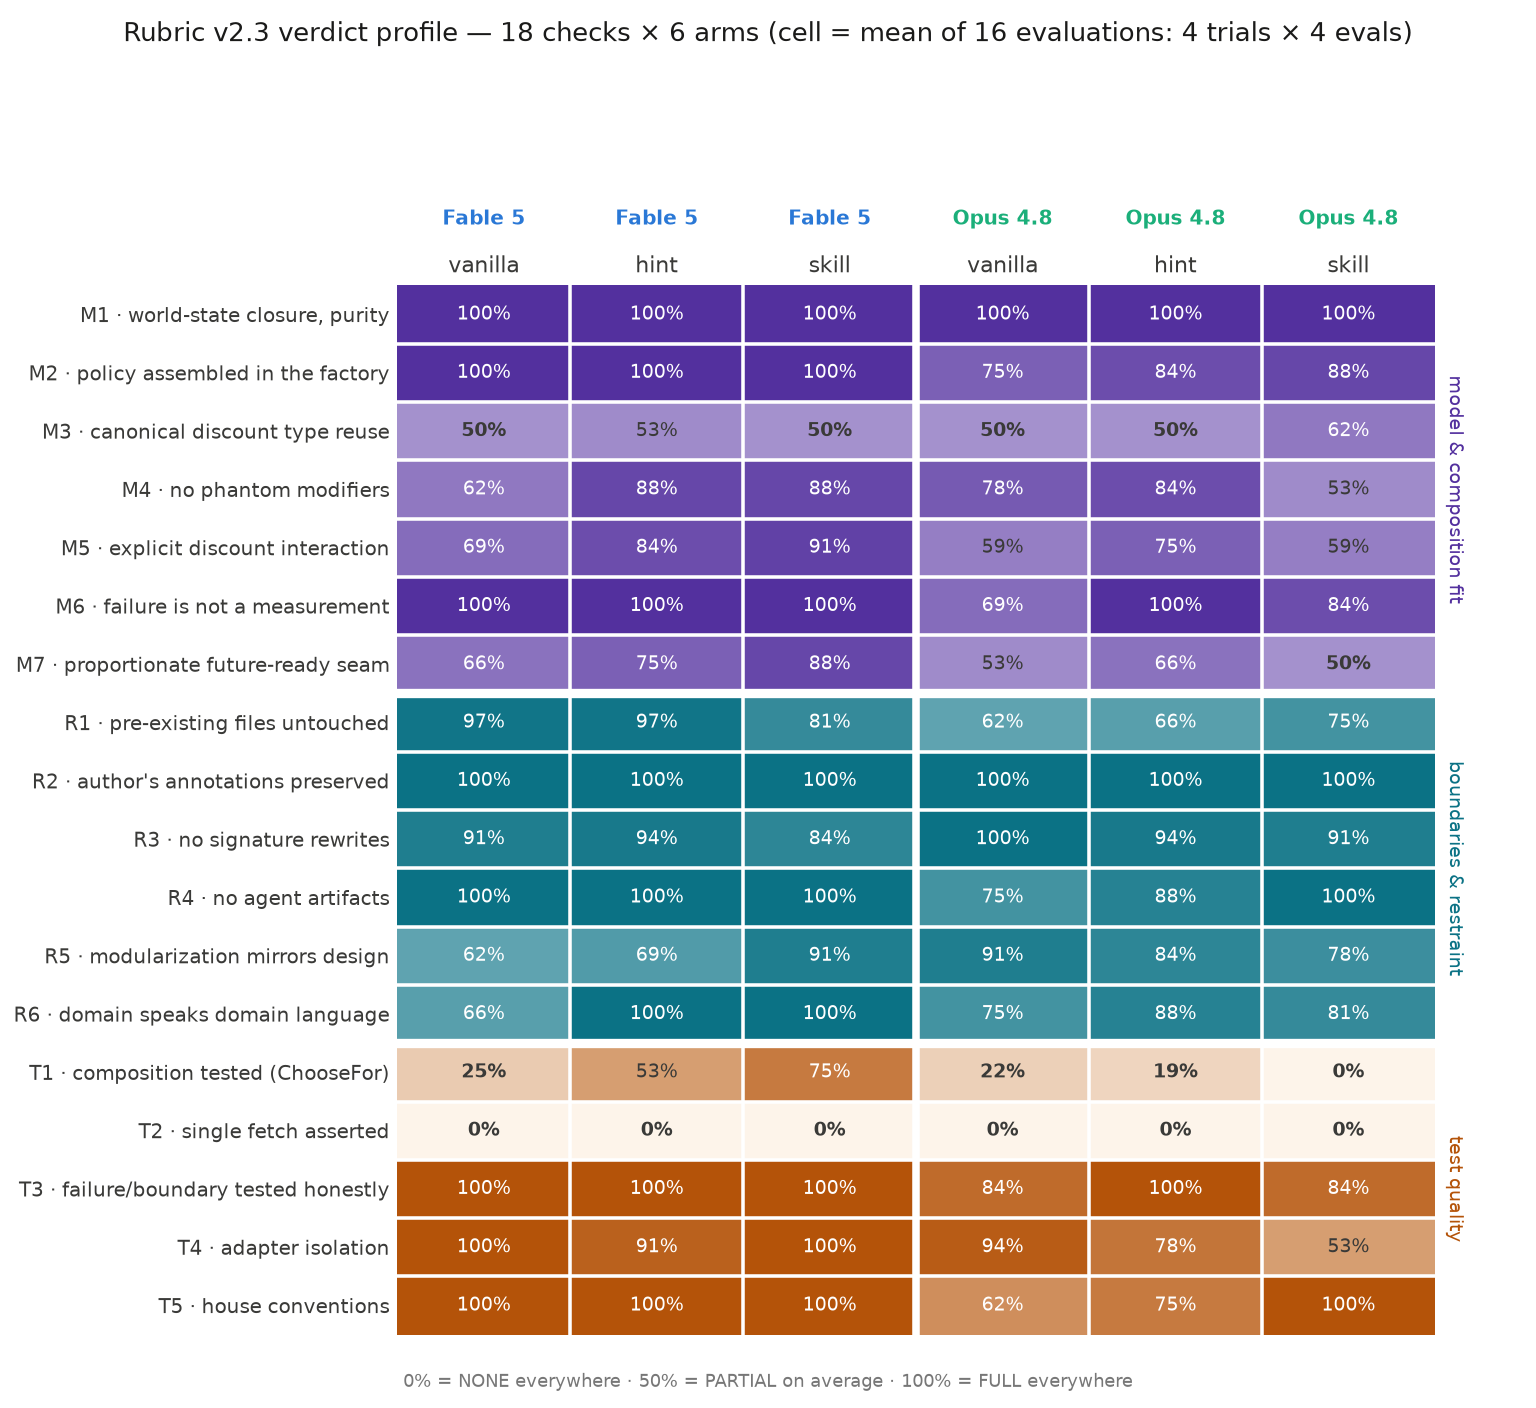
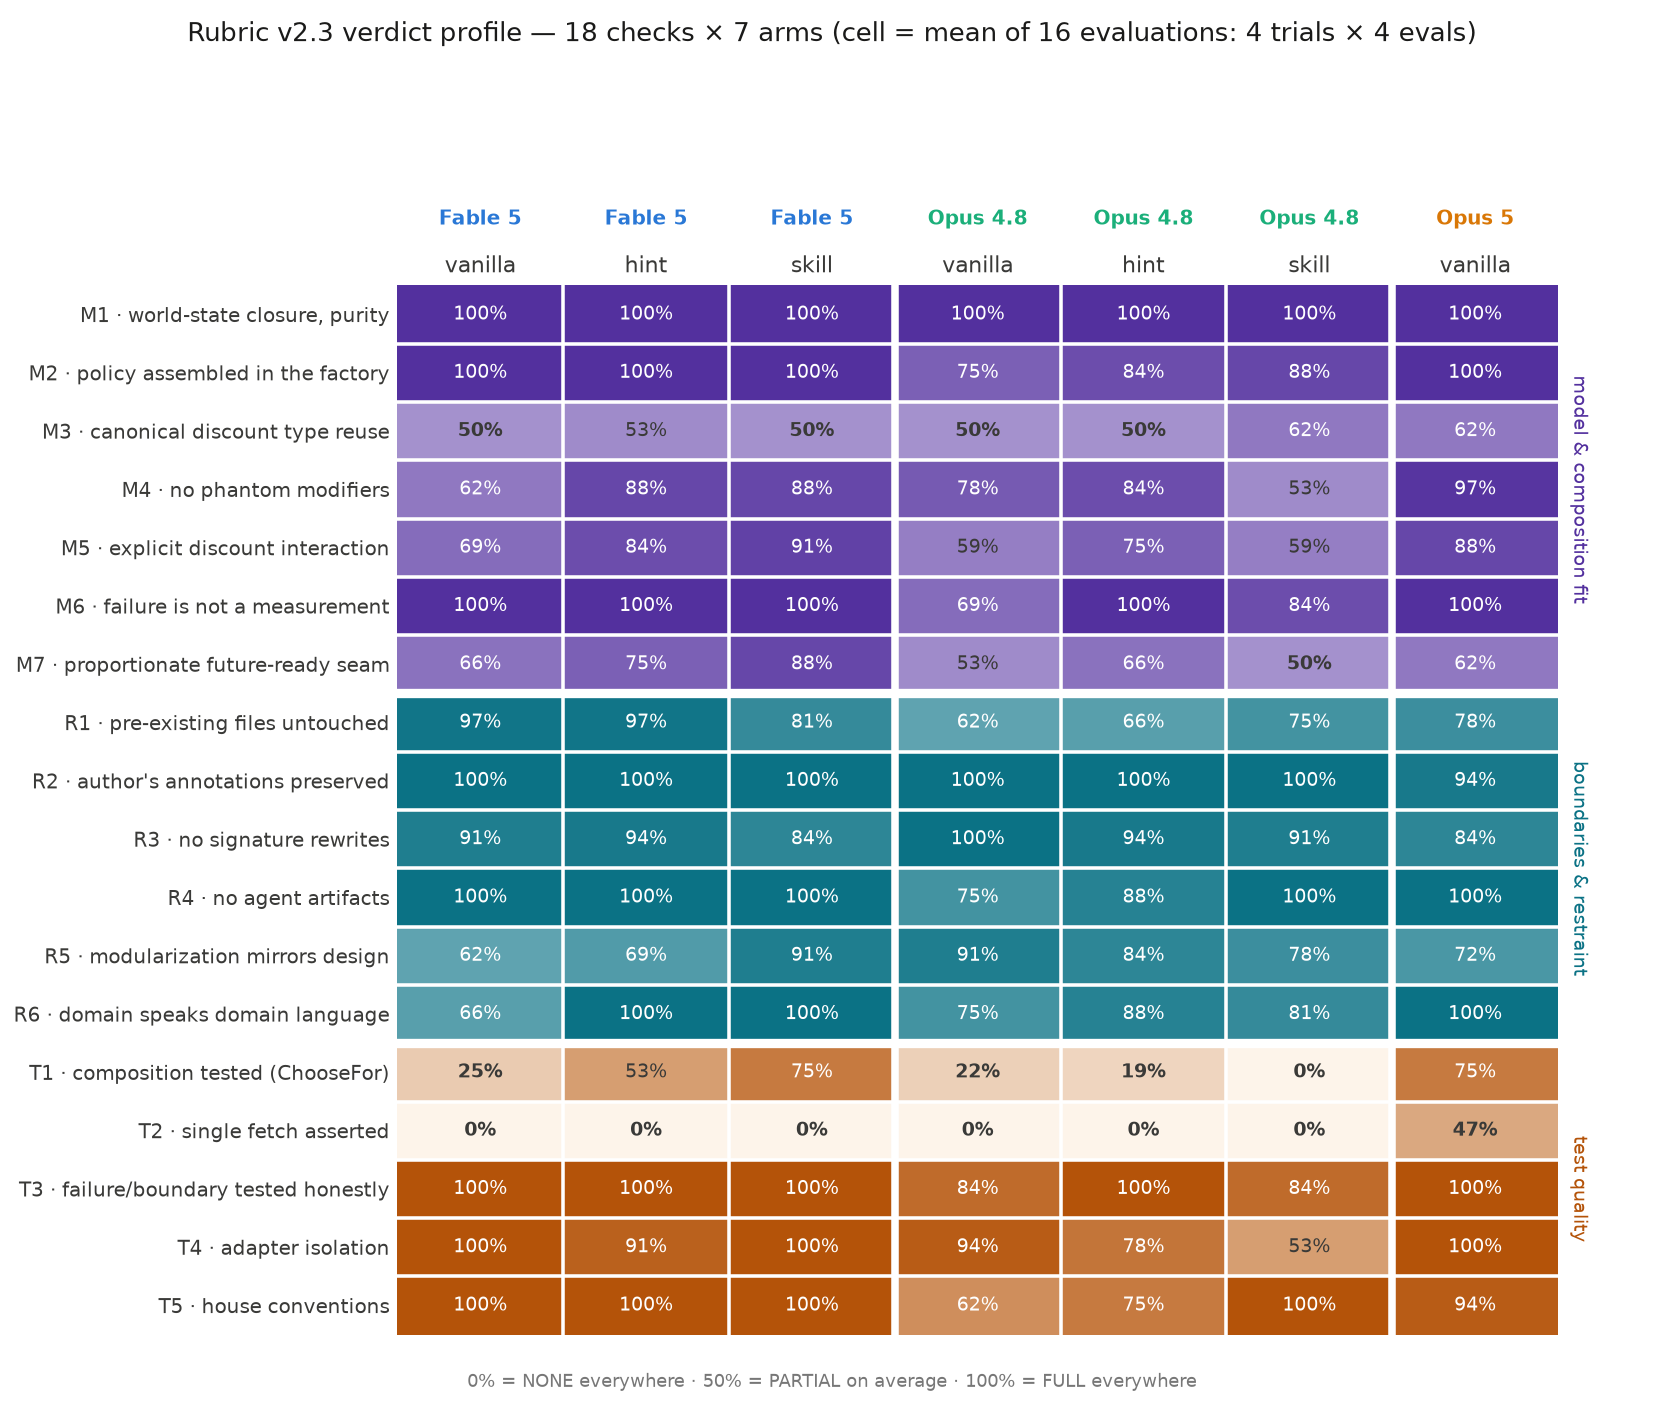
viz: add Opus 5 vanilla column to the verdict heatmap (18x7, PL+EN)
Judge panel frozen via JUDGES set (opus-5-judge pilot evals share the
fingerprint and must not enter cells). New parser pattern for unquantified
deduction lists ('Loses points on M3 (...) and M7 (...)') -> PARTIAL; flags
back to the 3 known eval_4 restraint mismatches. Notable: T2 (single fetch
asserted) 47% on Opus 5 vs 0% across the whole grid.

Claude-Session: https://claude.ai/code/session_0112rjaT9dWVPXhqm2FCQQPh

diff --git a/examples/ddd-architectural-challenges/verdict_heatmap.py b/examples/ddd-architectural-challenges/verdict_heatmap.py
@@ -1,4 +1,4 @@
-"""Verdict heatmap for the 24-trial grid: 18 rubric checks x 6 arms (PL + EN PNGs).
+"""Verdict heatmap, grid + Opus 5 arm: 18 rubric checks x 7 arms (PL + EN PNGs).
 
 Per-check verdicts (M1-M7 / R1-R6 / T1-T5, FULL/PARTIAL/NONE) are parsed from the
 judges' free-text dimension reasoning — the eval JSON stores scores per dimension
@@ -28,10 +28,15 @@ ARMS: dict[tuple[str, str], list[str]] = {
     ("Opus 4.8", "vanilla"): ["GoWvUz6", "cyQyXFc", "JTgey8p", "Lozfurr"],
     ("Opus 4.8", "hint"): ["YgcbZjf", "VoktgLb", "sSUYQp4", "a6okSgZ"],
     ("Opus 4.8", "skill"): ["ZMX6Xbq", "TsjcHWY", "Bkwiqom", "F5vYATs"],
+    ("Opus 5", "vanilla"): ["i9ivEds", "m82SdTE", "Yi8S8wA", "Wipg7XN"],
 }
 ARM_ORDER = [("Fable 5", "vanilla"), ("Fable 5", "hint"), ("Fable 5", "skill"),
-             ("Opus 4.8", "vanilla"), ("Opus 4.8", "hint"), ("Opus 4.8", "skill")]
-CODER_COLOR = {"Fable 5": "#2a78d6", "Opus 4.8": "#1baf7a"}
+             ("Opus 4.8", "vanilla"), ("Opus 4.8", "hint"), ("Opus 4.8", "skill"),
+             ("Opus 5", "vanilla")]
+CODER_COLOR = {"Fable 5": "#2a78d6", "Opus 4.8": "#1baf7a", "Opus 5": "#d97706"}
+# Panel frozen at 2x Fable + 2x Opus 4.8 per trial; evals by other judge models
+# (the claude-opus-5 judge pilot) share the fingerprint and must be excluded.
+JUDGES = {"claude-fable-5", "claude-opus-4-8"}
 INK = "#1a1a19"
 
 MAX = {"M1": 10, "M2": 9, "M3": 9, "M4": 7, "M5": 7, "M6": 4, "M7": 4,
@@ -86,14 +91,14 @@ LABELS = {
 }
 TEXT = {
     "pl": {
-        "title": "Profil werdyktów rubryki v2.3 — 18 checków × 6 ramion "
+        "title": "Profil werdyktów rubryki v2.3 — 18 checków × 7 ramion "
                  "(komórka = średnia z 16 ocen: 4 triale × 4 ewaluacje)",
         "scale": "0% = wszędzie NONE · 50% = przeciętnie PARTIAL · 100% = wszędzie FULL",
         "groups": {"M": "model i kompozycja", "R": "granice i powściągliwość", "T": "jakość testów"},
         "out": "verdict_heatmap.png",
     },
     "en": {
-        "title": "Rubric v2.3 verdict profile — 18 checks × 6 arms "
+        "title": "Rubric v2.3 verdict profile — 18 checks × 7 arms "
                  "(cell = mean of 16 evaluations: 4 trials × 4 evals)",
         "scale": "0% = NONE everywhere · 50% = PARTIAL on average · 100% = FULL everywhere",
         "groups": {"M": "model & composition fit", "R": "boundaries & restraint", "T": "test quality"},
@@ -119,6 +124,9 @@ P_V_LIST = re.compile(rf"\b({V})s?\s*(?:on)?:\s*([^.;]*)")
 P_POINTS = re.compile(rf"\b({ID})\s*(?:[=:]\s*|\s+)(\d+)(?:\s*/\s*(\d+))?(?=[\s,;.)\]])")
 # 6) "Lost 5 on M3"
 P_LOST = re.compile(rf"\b[Ll]ost\s+(\d+)\s+on\s+({ID})\b")
+# 7) unquantified deduction list: "Loses points on M3 (...) and M7 (...)" — a
+#    named deduction with no amount is a PARTIAL (a NONE is always spelled out)
+P_LOSES = re.compile(r"\b[Ll]oses?\s+points?\s+on\s+([^.;]*)")
 
 
 def classify(points: int, cid: str) -> str:
@@ -151,6 +159,9 @@ def parse_eval(d: dict) -> tuple[dict[str, str], list[str]]:
             local.setdefault(cid, classify(int(pts), cid))
         for lost, cid in P_LOST.findall(text):
             local.setdefault(cid, classify(MAX[cid] - int(lost), cid))
+        for tail in P_LOSES.findall(text):
+            for cid in re.findall(rf"\b{ID}\b", tail):
+                local.setdefault(cid, "PARTIAL")
         checks = DIM_CHECKS[name]
         for cid in checks:
             local.setdefault(cid, "FULL")  # judges enumerate deductions only
@@ -173,7 +184,7 @@ def collect() -> tuple[dict[tuple[str, str], list[dict]], list[str]]:
             (td,) = JOBS.glob(f"*/ddd-weather-discount__{t}")
             for f in sorted(td.glob("assessment_eval_*.json")):
                 d = json.loads(f.read_text())
-                if d.get("dimensions_fingerprint") != FP:
+                if d.get("dimensions_fingerprint") != FP or d.get("evaluator_model") not in JUDGES:
                     continue
                 verdicts, audit = parse_eval(d)
                 per_arm[arm].append(verdicts)
@@ -198,7 +209,7 @@ def heatmap(per_arm: dict, lang: str) -> None:
              for arm in ARM_ORDER] for c in CHECKS]
     rgba = [[CMAPS[c[0]](v) for v in row] for c, row in zip(CHECKS, grid)]
 
-    fig, ax = plt.subplots(figsize=(9.6, 8.8))
+    fig, ax = plt.subplots(figsize=(10.4, 8.8))
     fig.suptitle(t["title"], fontsize=11.5, color=INK, y=0.985)
     ax.imshow(rgba, aspect="auto")
 
@@ -222,7 +233,7 @@ def heatmap(per_arm: dict, lang: str) -> None:
 
     # white gridlines between cells; heavier breaks + side captions between M/R/T groups
     for xi in range(1, len(ARM_ORDER)):
-        lw = 3.4 if xi == 3 else 1.6
+        lw = 3.4 if xi in (3, 6) else 1.6
         ax.axvline(xi - 0.5, color="white", linewidth=lw)
     for yi in range(1, len(CHECKS)):
         ax.axhline(yi - 0.5, color="white", linewidth=1.6)
@@ -243,7 +254,7 @@ def heatmap(per_arm: dict, lang: str) -> None:
 if __name__ == "__main__":
     per_arm, flags = collect()
     n = sum(len(v) for v in per_arm.values())
-    print(f"evals parsed: {n} (expected 96)")
+    print(f"evals parsed: {n} (expected 112)")
     for fl in flags:
         print("FLAG", fl)
     for lang in ("pl", "en"):
